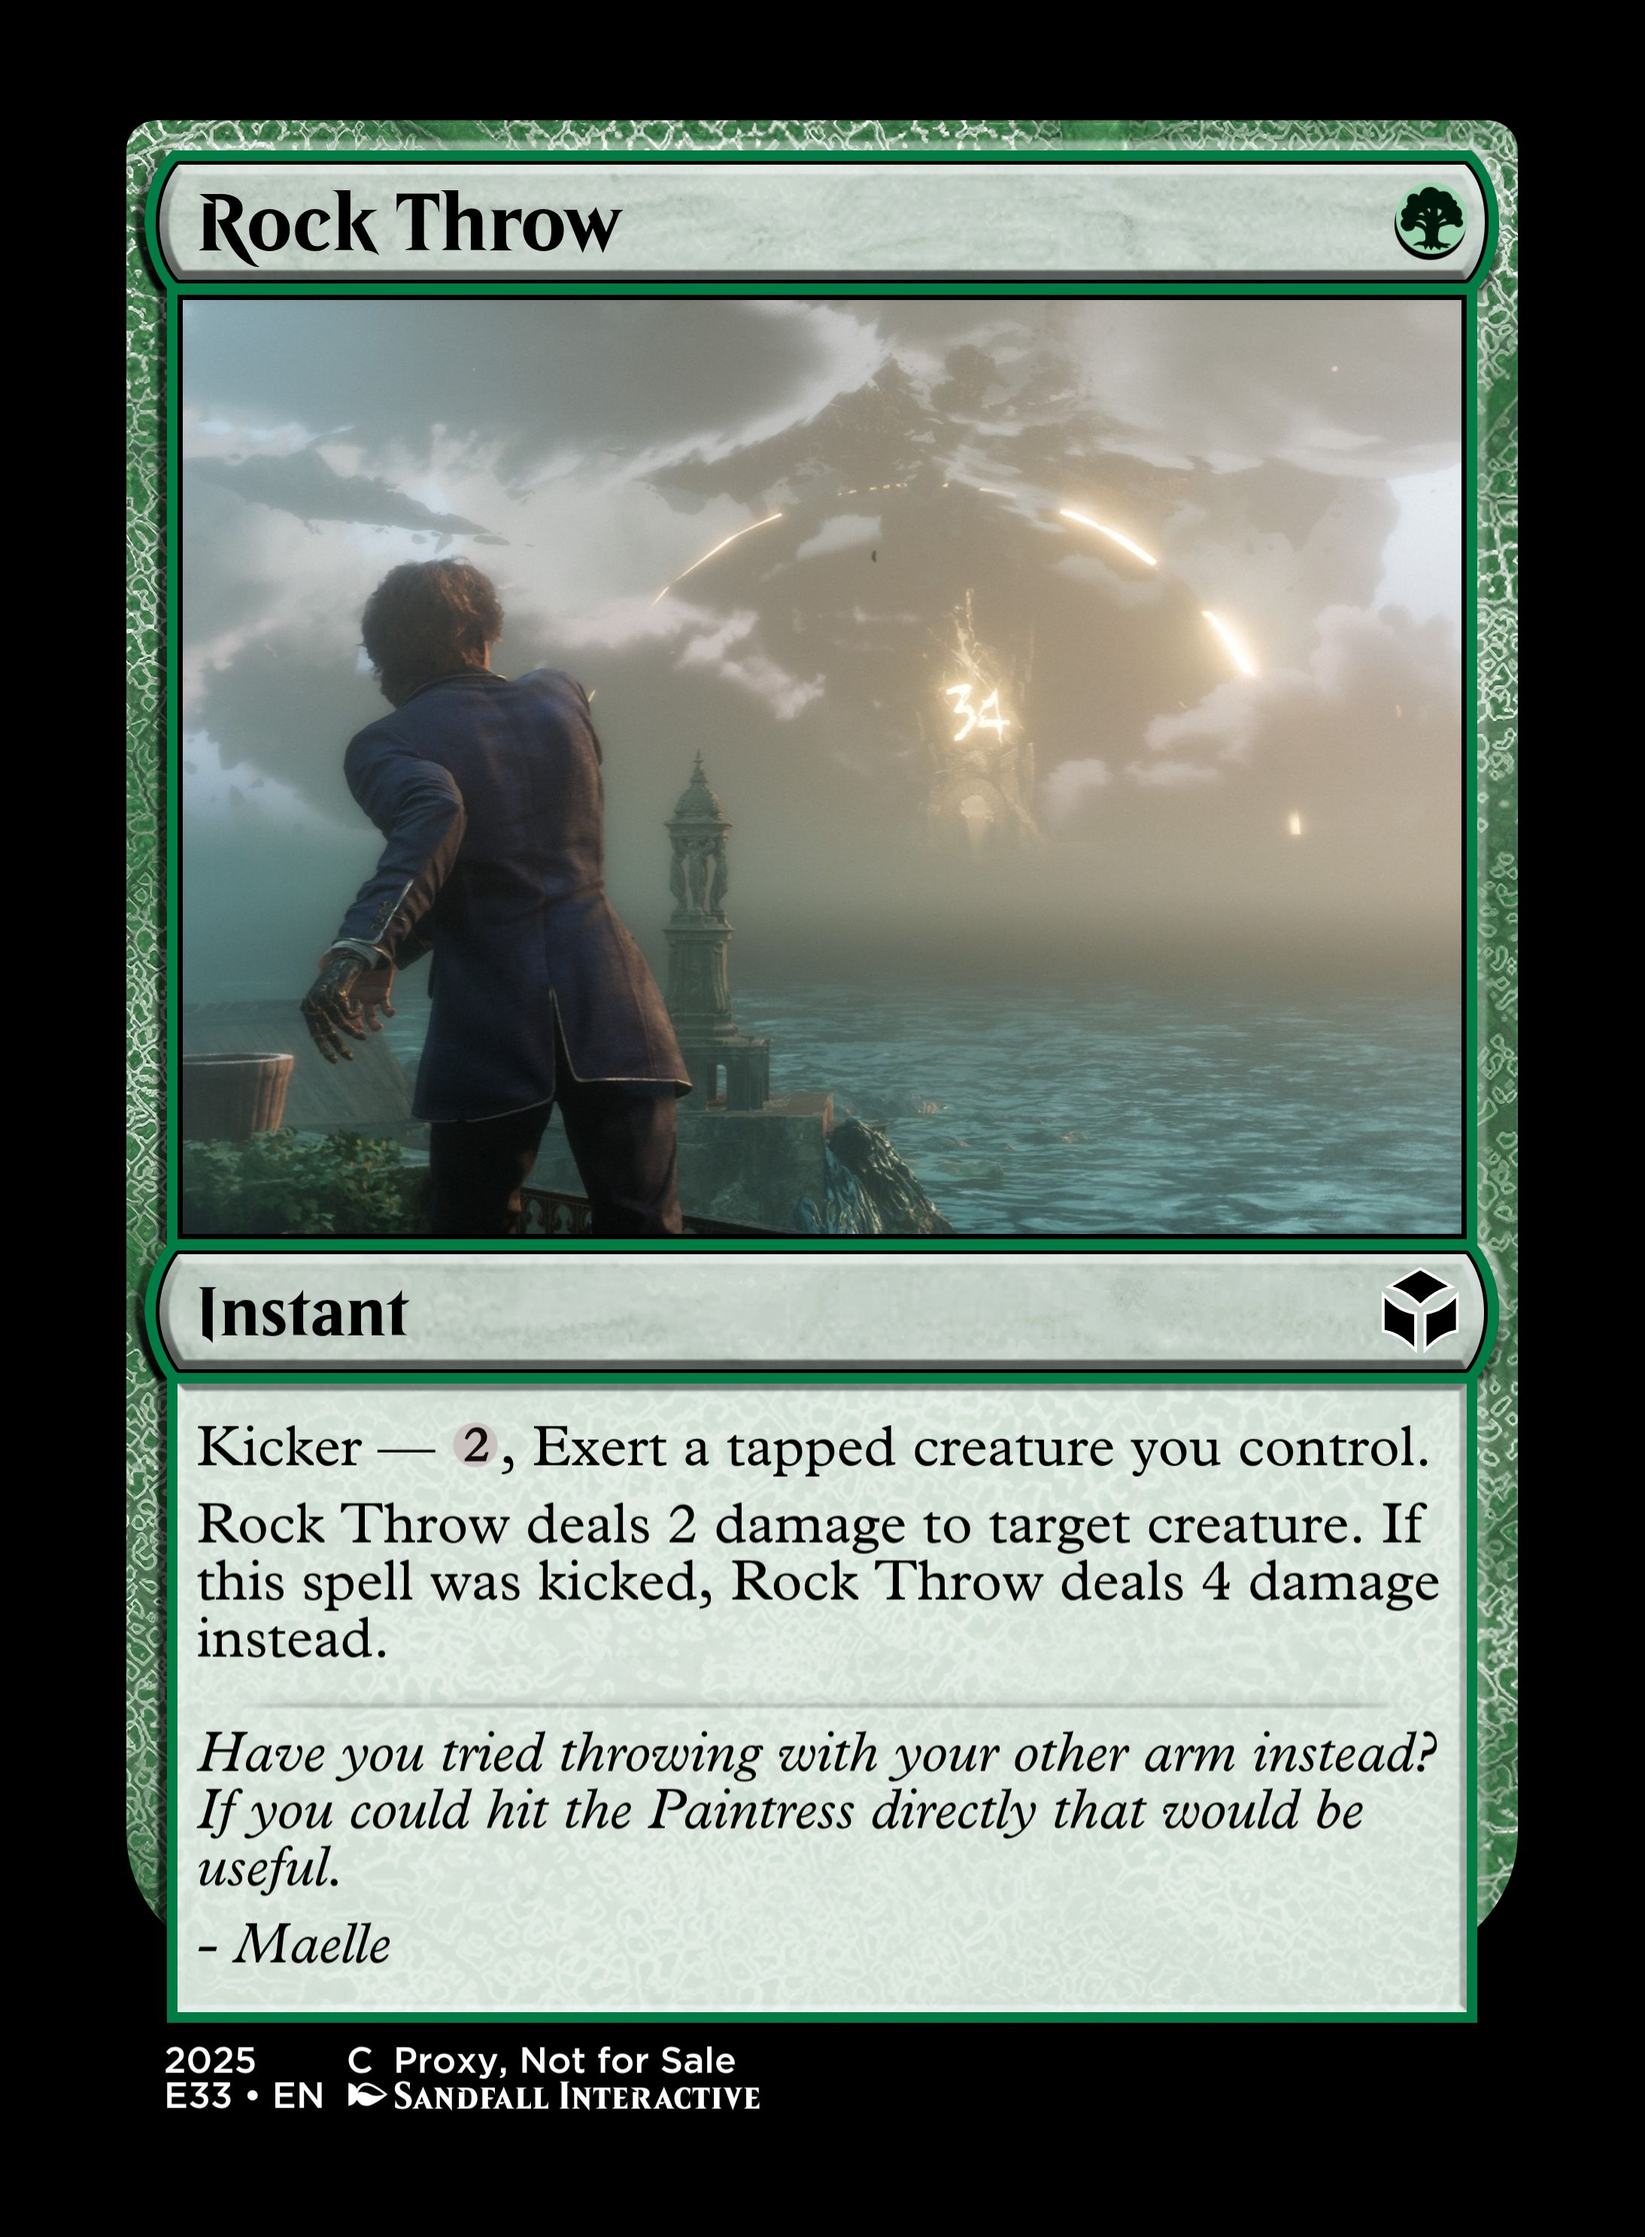
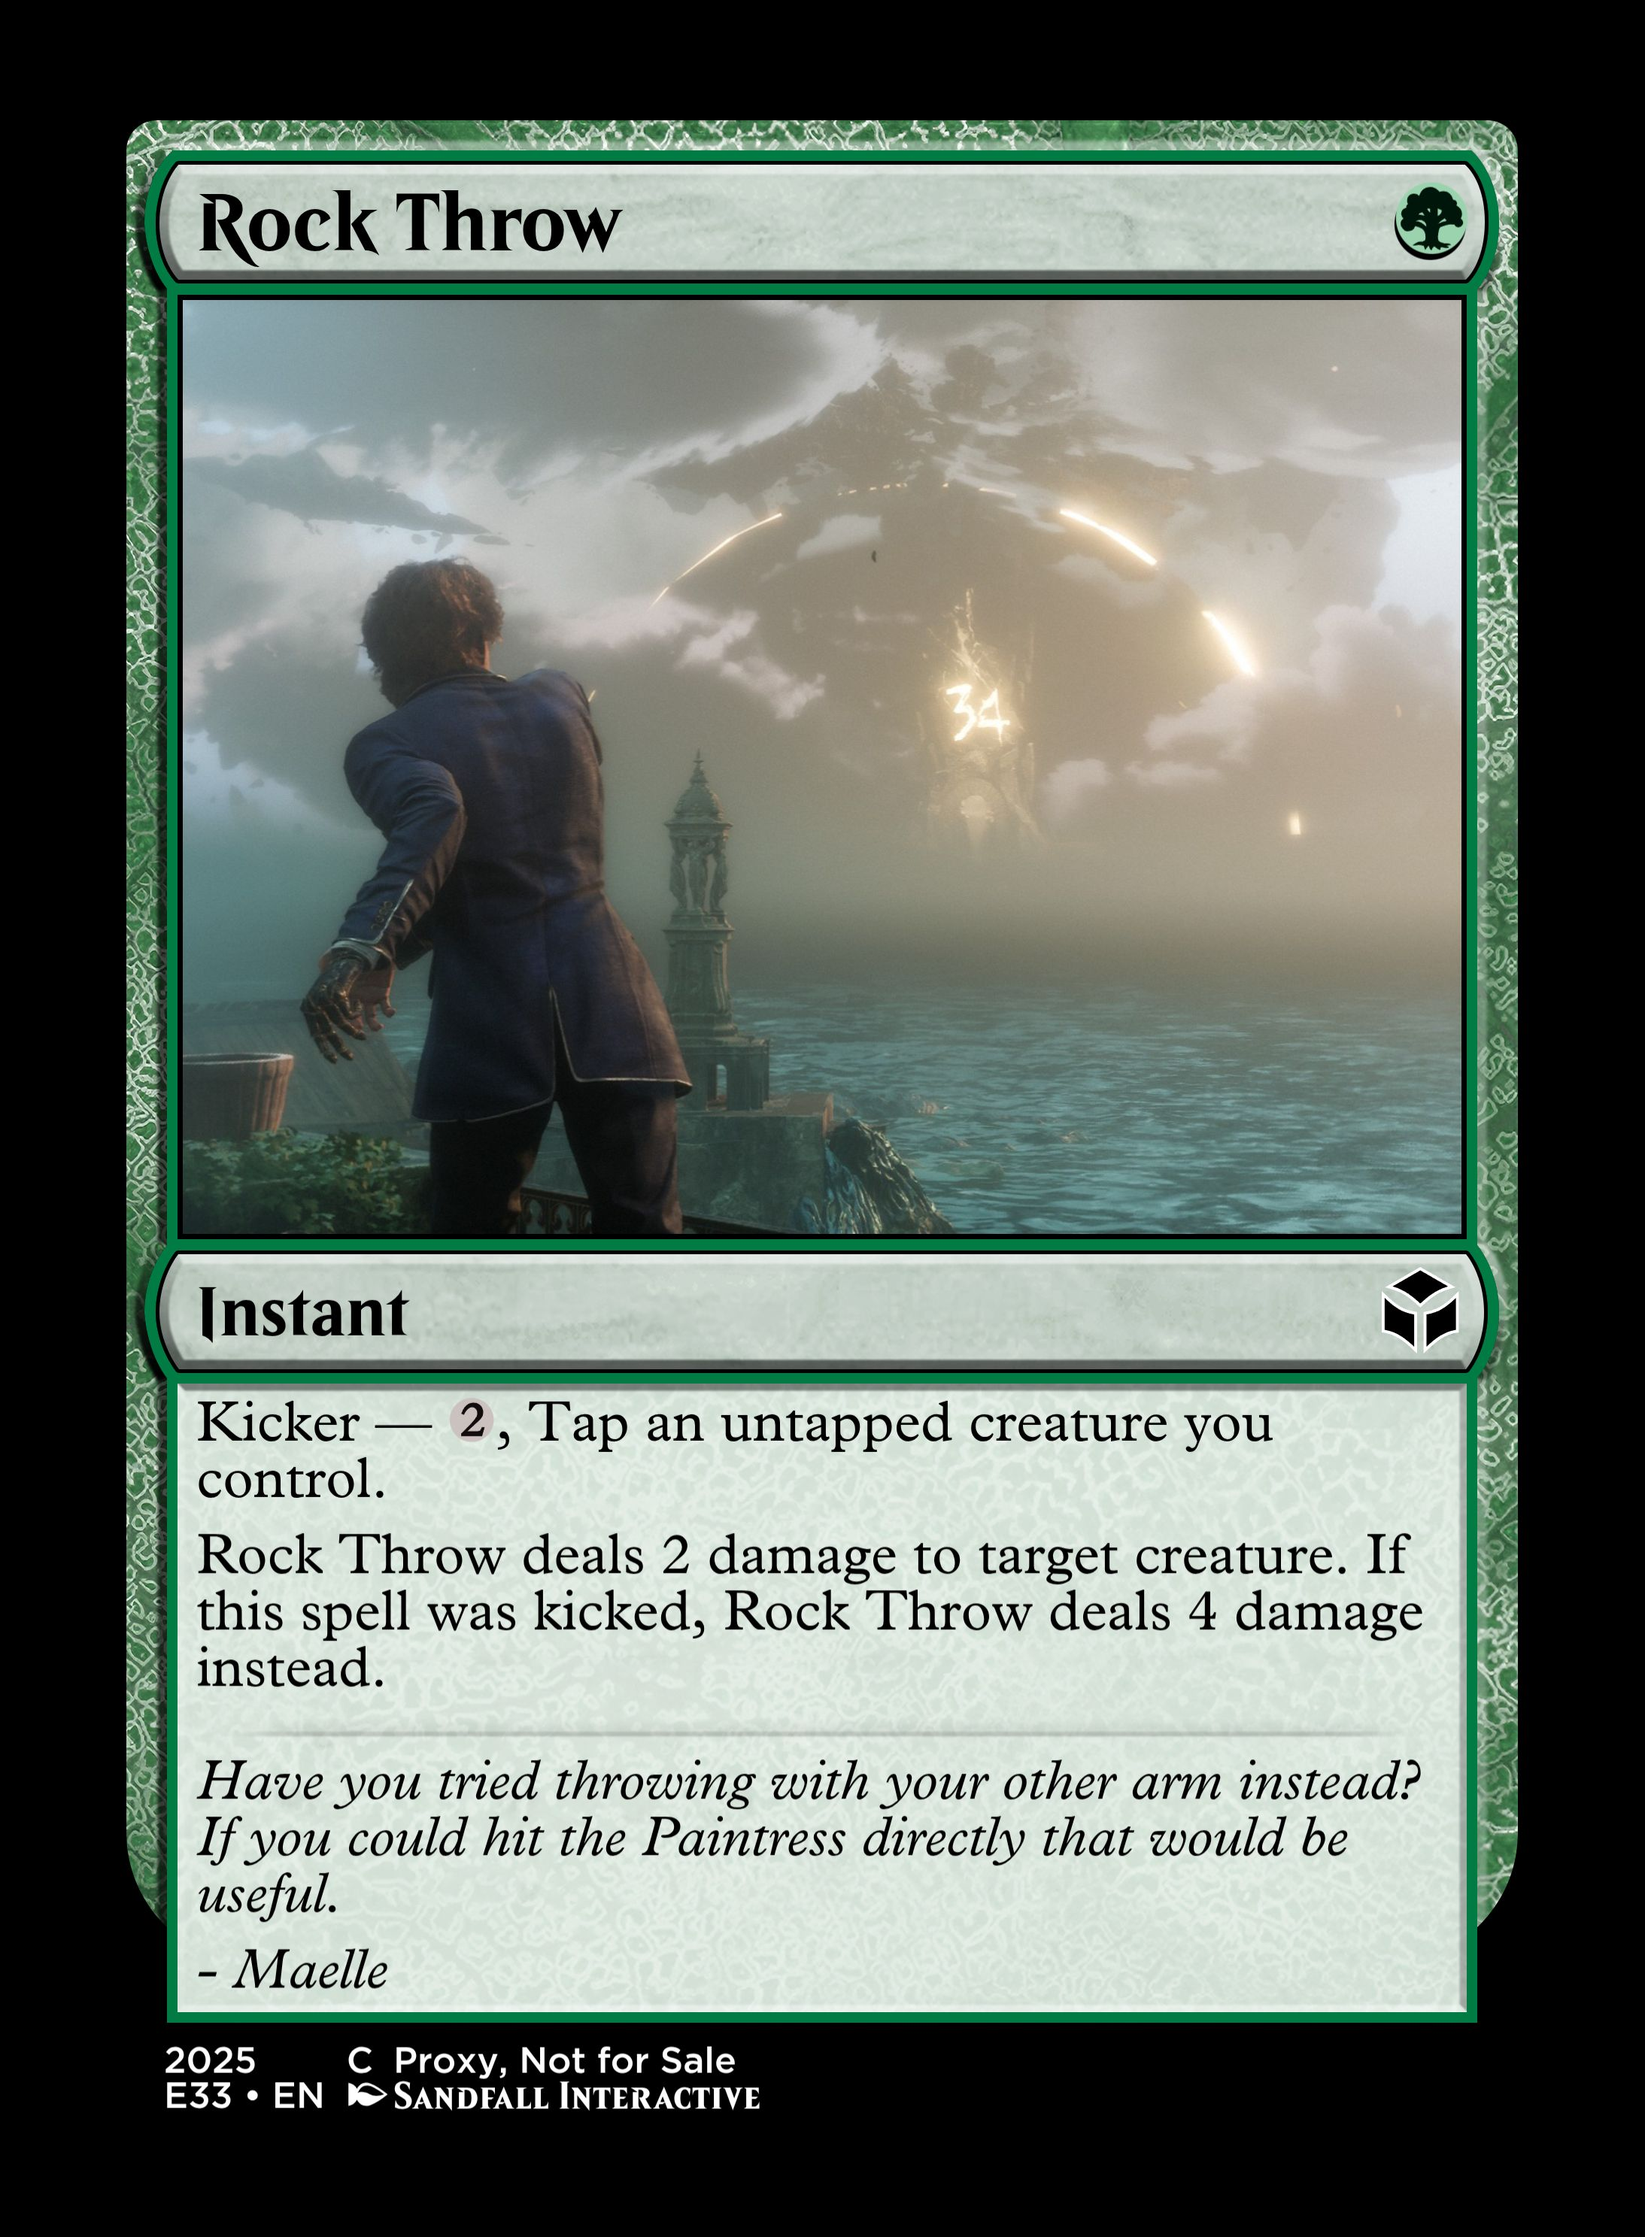
Rock Throw, The Curator: Drop exert requirement. Fixes #94
Lightning Dance: Updated tags

Mutinous Expedition 48 Soldier: Fix oracle text formatting.

Changed region(s): [[0.1244, 0.6185, 0.8706, 0.8968], [0.8084, 0.6185, 0.8395, 0.6494]]

diff --git a/design/SPOILER.md b/design/SPOILER.md
@@ -98,7 +98,7 @@
 | ![](../custom/pics/cards/E33/Grosse%20Tete.full.jpg) | ![](../custom/pics/cards/E33/Half-baked%20Lifeguard.full.jpg) | ![](../custom/pics/cards/E33/Hexga.full.jpg) |
 | <center>[Grosse Tête](RED.md#grosse-tête)<br/><small>Tags: board-wipe</small></center> | <center>[Half-baked Lifeguard](RED.md#half-baked-lifeguard)<br/><small>Tags: (none)</small></center> | <center>[Hexga](RED.md#hexga)<br/><small>Tags: (none)</small></center> |
 | ![](../custom/pics/cards/E33/Last-Ditch%20Effort.full.jpg) | ![](../custom/pics/cards/E33/Lightning%20Dance.full.jpg) | ![](../custom/pics/cards/E33/Marked%21.full.jpg) |
-| <center>[Last-Ditch Effort](RED.md#last-ditch-effort)<br/><small>Tags: creature-removal, planeswalker-removal</small></center> | <center>[Lightning Dance](RED.md#lightning-dance)<br/><small>Tags: creature-removal, luminous</small></center> | <center>[Marked!](RED.md#marked)<br/><small>Tags: combat-trick</small></center> |
+| <center>[Last-Ditch Effort](RED.md#last-ditch-effort)<br/><small>Tags: creature-removal, planeswalker-removal</small></center> | <center>[Lightning Dance](RED.md#lightning-dance)<br/><small>Tags: creature-removal, luminous, planeswalker-removal</small></center> | <center>[Marked!](RED.md#marked)<br/><small>Tags: combat-trick</small></center> |
 | ![](../custom/pics/cards/E33/Monsieur%20Frappe.full.jpg) | ![](../custom/pics/cards/E33/Mutinous%20Expedition%2048%20Soldier.full.jpg) | ![](../custom/pics/cards/E33/Orphelin.full.jpg) |
 | <center>[Monsieur Frappe](RED.md#monsieur-frappe)<br/><small>Tags: (none)</small></center> | <center>[Mutinous Expedition 48 Soldier](RED.md#mutinous-expedition-48-soldier)<br/><small>Tags: (none)</small></center> | <center>[Orphelin](RED.md#orphelin)<br/><small>Tags: (none)</small></center> |
 | ![](../custom/pics/cards/E33/Persuasive%20Argument.full.jpg) | ![](../custom/pics/cards/E33/Potier.full.jpg) | ![](../custom/pics/cards/E33/Ranger%20Sakapatate.full.jpg) |

diff --git a/design/MULTICOLOR.md b/design/MULTICOLOR.md
@@ -1,6 +1,6 @@
 # Cards
 
-> Last generated: 6/2/2026 12:07:39 pm
+> Last generated: 7/2/2026 7:13:27 am
 
 ## A Storm is Coming
 
@@ -2304,7 +2304,7 @@ Stendhal deals 33 damage to target creature or planeswalker.
 Legendary Creature - Painter Spirit
 Picto Reinforcement — {2}{U}, {T}: Create two Lumina tokens.
 Upgrades your weapons — {2}{G/W}, {T}: Distribute two +1/+1 counters among one or two target creatures.
-Latent skill activation — {3}{B}, {T}, Exert a tapped Expeditioner creature you control: Destroy target creature.
+Latent skill activation — {3}{B}, {T}, Tap an untapped Expeditioner creature you control: Destroy target creature.
 When The Curator dies, return it to the battlefield transformed under it’s owner’s control.
 
 4/5
@@ -2334,6 +2334,7 @@ Whenever a Nevron you control dies, draw a card and each opponent discards a car
  - In terms of Planeswalker design it revolves around the Nevron/Painter alliance and abilities that benefit them both.
  - 29/11/2025: Mana costs adjusted so that he can be a 5c Nevron commander.
  - 25/01/2026: Tweaked exert wording/cost to exert a tapped Expeditioner creature you control. Although 701.39b states that a permanent can be exerted even if it's not tapped, this does nothing for us in terms of gameplay and flavor.
+ - 7/02/2026: Dropped exert requirement so Latent Skill Activation is now just tapping an untapped Expeditioner creature you control. Even though exerting an already tapped creature work in Forge, it is just plain awkward and exerting adds extra mental burden (to remember to not untap) on paper.
 
 ## The Fate of the Canvas
 

diff --git a/design/GREEN.md b/design/GREEN.md
@@ -1,6 +1,6 @@
 # Cards
 
-> Last generated: 6/2/2026 11:47:24 am
+> Last generated: 7/2/2026 6:52:20 am
 
 ## Abbest
 
@@ -591,7 +591,7 @@ Luminous — If you control three or more Lumina tokens, also return up to one t
 ```
 G
 Instant
-Kicker — {2}, Exert a tapped creature you control.
+Kicker — {2}, Tap an untapped creature you control.
 Rock Throw deals 2 damage to target creature. If this spell was kicked, Rock Throw deals 4 damage instead.
 ---
 Have you tried throwing with your other arm instead? If you could hit the Paintress directly that would be useful.
@@ -605,6 +605,7 @@ Have you tried throwing with your other arm instead? If you could hit the Paintr
  - In the game, Gustave has a penchant for throwing rocks.
  - To give green some bones in spot removal for draft/limited, this is a shock for creatures that can be upgraded in damage.
  - 1/1/2026: Fixed the kicker to exert a tapped creature as exert does not tap the creature as part of the exerting. I don't believe Forge supports a "tap and exert" action, so this is the closest thing.
+ - 7/02/2026: Changed kicker to just tap an untapped creature. Exerting an already tapped creature is weird from a templating perspective, even though it works in Forge.
 
 ## Sapling
 

diff --git a/design/RED.md b/design/RED.md
@@ -1,6 +1,6 @@
 # Cards
 
-> Last generated: 6/2/2026 11:23:12 am
+> Last generated: 7/2/2026 6:32:46 am
 
 ## Anger
 
@@ -415,7 +415,7 @@ Try to counter this, worm.
 ```
 1R
 Creature - Human Expeditioner Soldier
-Mutiny! - Whenever another Expeditioner creature you control dies, target opponent gains control of this creature.
+Mutiny! — Whenever another Expeditioner creature you control dies, target opponent gains control of this creature.
 When this creature dies, create a Chroma token.
 ---
 It's a gutting realization, what has to be done. The mission is too important. The team is too important. We can't just throw our lives away for nothing. I hate that it came to this, but he broke our trust.
